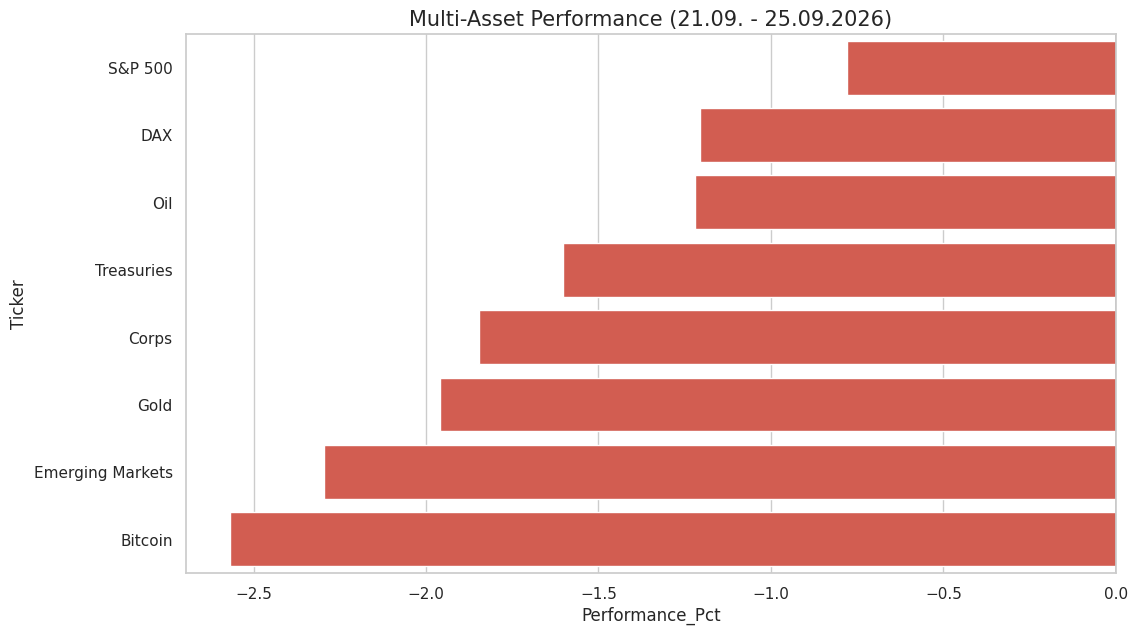
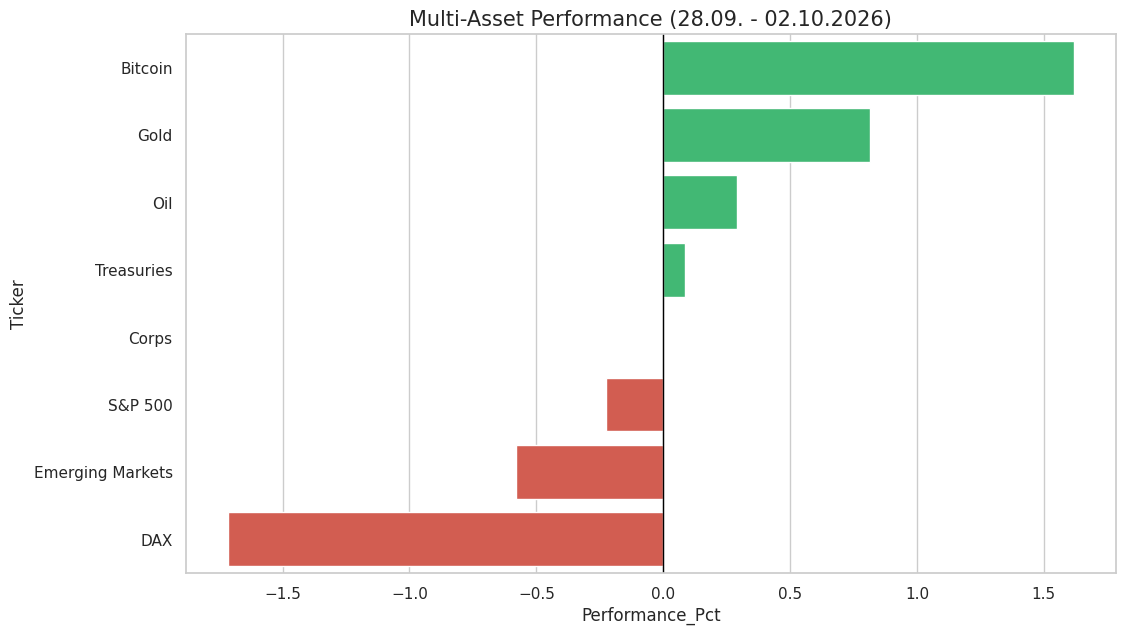
Automated weekly update

diff --git a/README.md b/README.md
@@ -1,19 +1,19 @@
 # 📈 Multi-Asset Weekly Wrap-up
 
-## Aktueller Wochenrückblick (2026-09-25)
+## Aktueller Wochenrückblick (2026-10-02)
 ![Weekly Performance](reports/latest.png)
 
 ### Markt-Kontext & Analyse
 | Asset | Performance | Trend (4W) | Risiko-Status |
 | :--- | :--- | :--- | :--- |
-| S&P 500 | -0.78% | ➡ | ✅ Stabil |
-| DAX | -1.21% | ➡ | ✅ Stabil |
-| Oil | -1.22% | ➡ | ✅ Stabil |
-| Treasuries | -1.60% | ➡ | ⚠ Extrem |
-| Corps | -1.85% | ➡ | ⚠ Extrem |
-| Gold | -1.96% | ➡ | ✅ Stabil |
-| Emerging Markets | -2.30% | ➡ | ✅ Stabil |
-| Bitcoin | -2.57% | 📈 | ✅ Stabil |
+| Bitcoin | +1.62% | ➡ | ✅ Stabil |
+| Gold | +0.81% | ➡ | ✅ Stabil |
+| Oil | +0.29% | ➡ | ✅ Stabil |
+| Treasuries | +0.09% | ➡ | ✅ Stabil |
+| Corps | +0.00% | ➡ | ✅ Stabil |
+| S&P 500 | -0.22% | ➡ | ✅ Stabil |
+| Emerging Markets | -0.58% | ➡ | ✅ Stabil |
+| DAX | -1.71% | ➡ | 🔄 Volatil |
 
 ---
-*Automatisch aktualisiert am 25.09.2026 um 23:46*
+*Automatisch aktualisiert am 03.10.2026 um 00:07*
